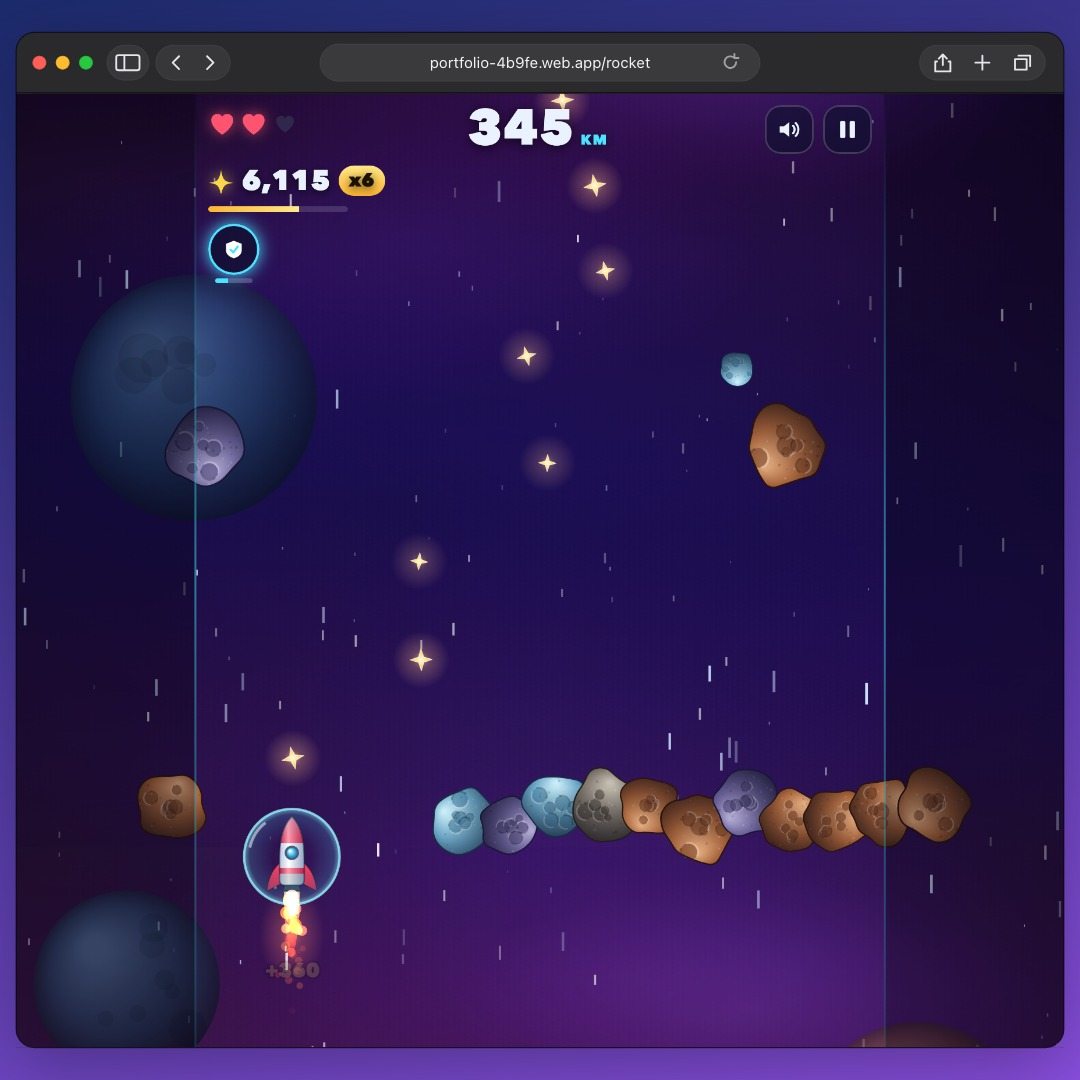
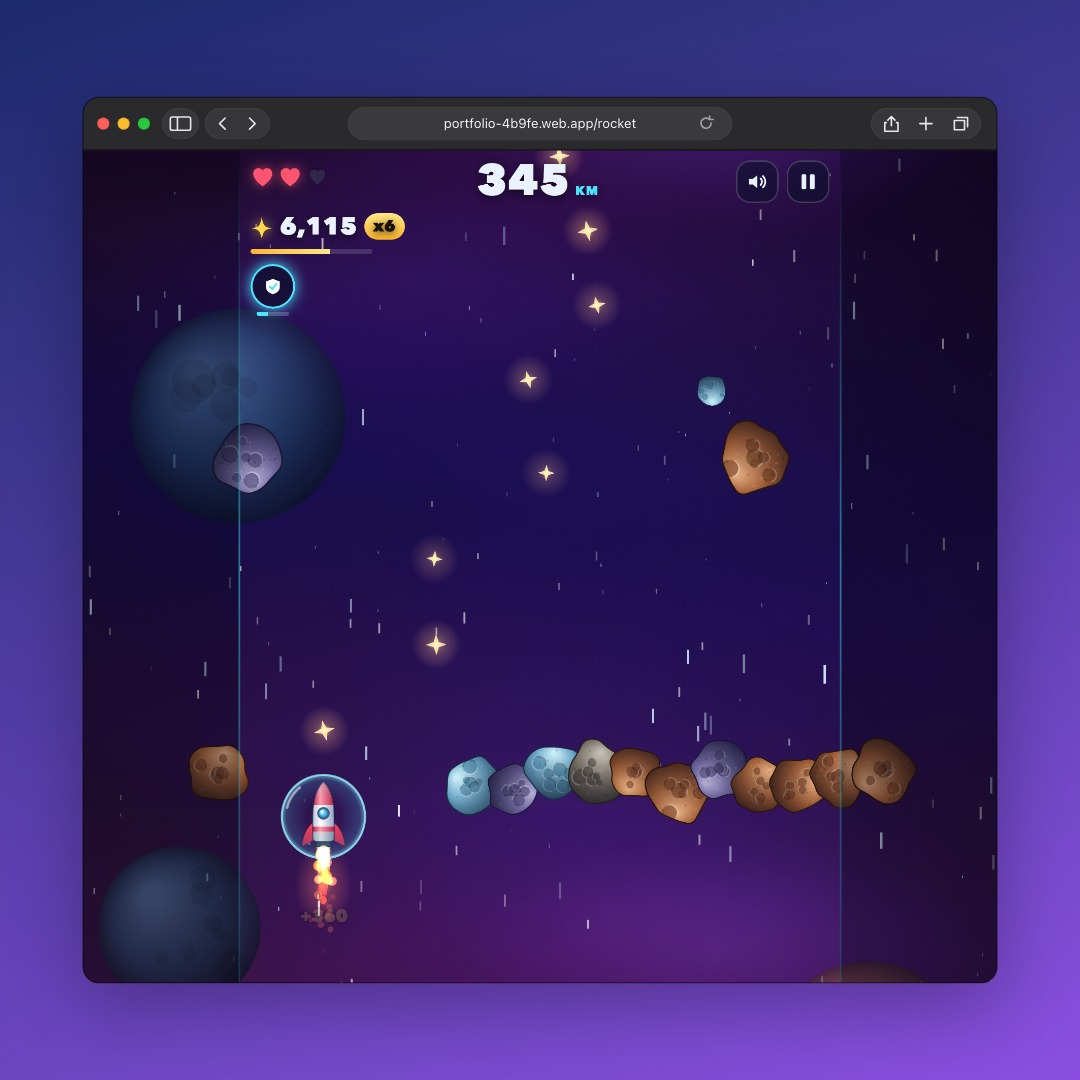
Pad Rocket's cover so the window sits inside the canvas

diff --git a/docs/PROJECTS.md b/docs/PROJECTS.md
@@ -96,7 +96,7 @@ Three files make a cover, and all three are committed:
 ```bash
 # A web app: the screen in a Safari window, on a square canvas.
 npx @jakeflavin/bezl image assets/covers/<slug>.png model=none window=safari \
-  window.url=portfolio-4b9fe.web.app/<slug> window.theme=dark height=0.94 y=0.5 \
+  window.url=portfolio-4b9fe.web.app/<slug> window.theme=dark height=0.82 y=0.5 \
   -c 1080x1080 -b "#1b2a6b,#8a4fe0@160" -o public/images/<slug>-cover.jpg --save <slug>-cover
 
 # Later: render the same cover again from the document.
@@ -111,7 +111,8 @@ npx @jakeflavin/bezl export <slug>-cover
 - **Capture the raw screen at the shape of the window**, close to square (Rocket's is
   900×820 at 2×), so the window fills the canvas and the app is not shrunk to fit. An app
   with a narrow column, like Rocket, still shows its sides; that is how it looks.
-- **The canvas is a plain square with the window nearly filling it.** No tilt, no crop.
+- **The canvas is a plain square with padding around the window.** Height 0.82 leaves about
+  85px a side at 1080. No tilt, no crop, and the window is never cut by the edge.
 - **Do not let a pop-up cover the subject.** Rocket's first frame had a score pop-up over
   the rocket. Look at the frame before it is framed.
 - **No text layers.** The card prints the title, so the cover carries none.
